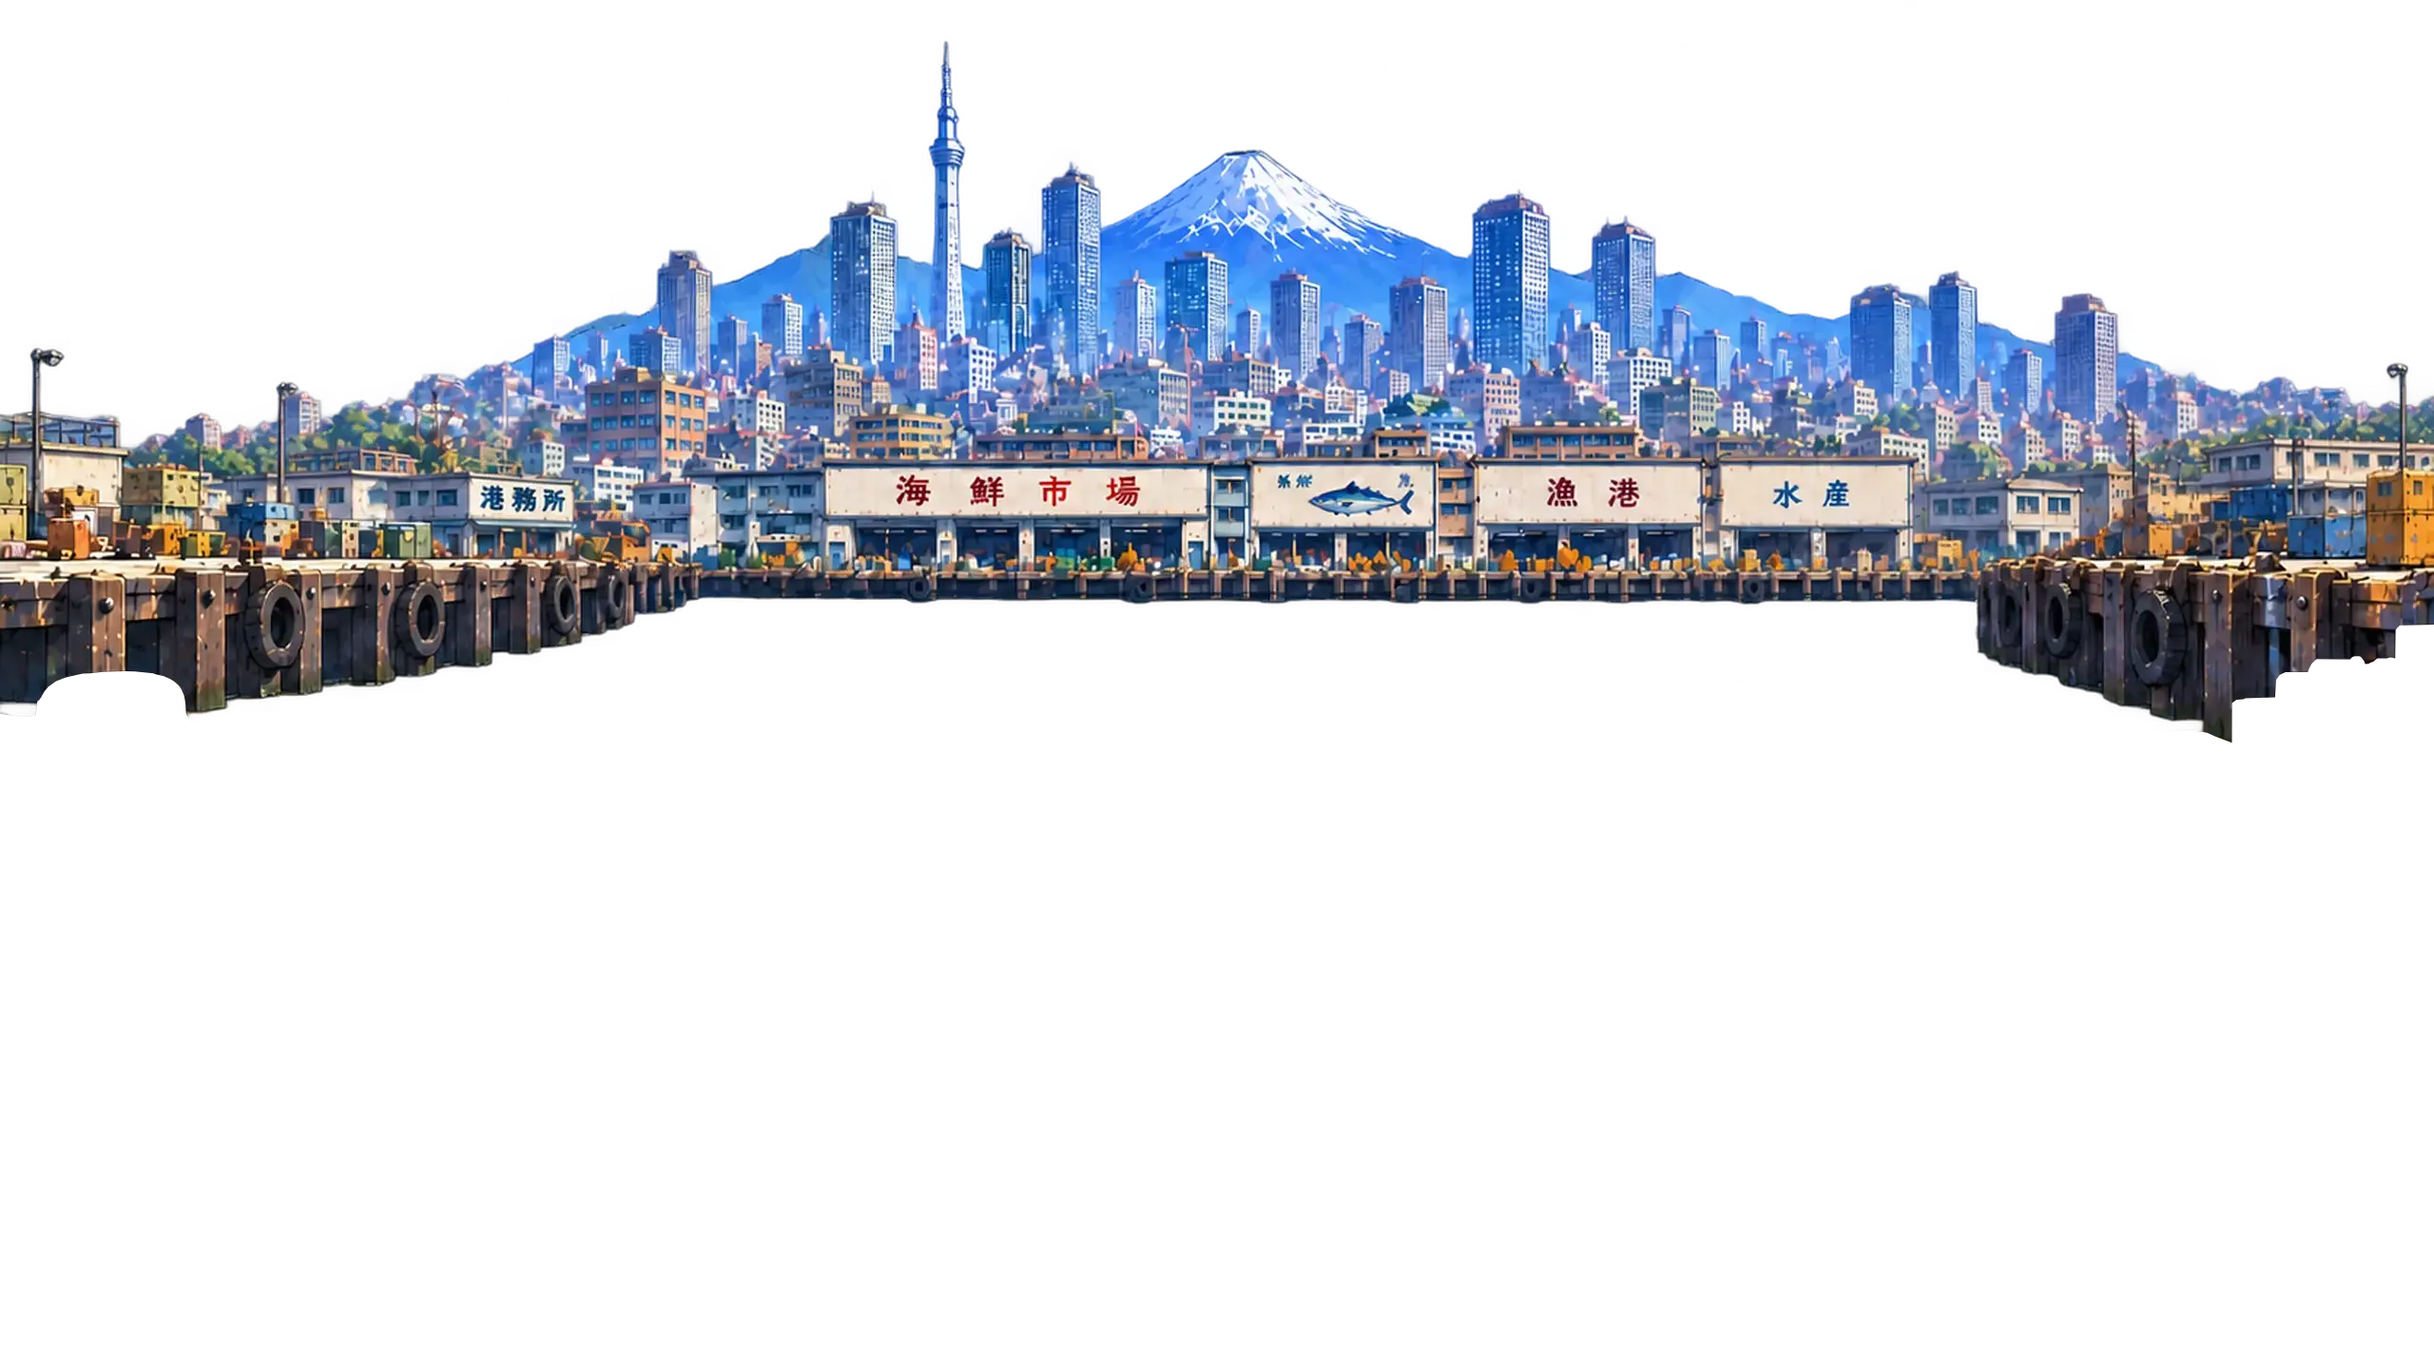
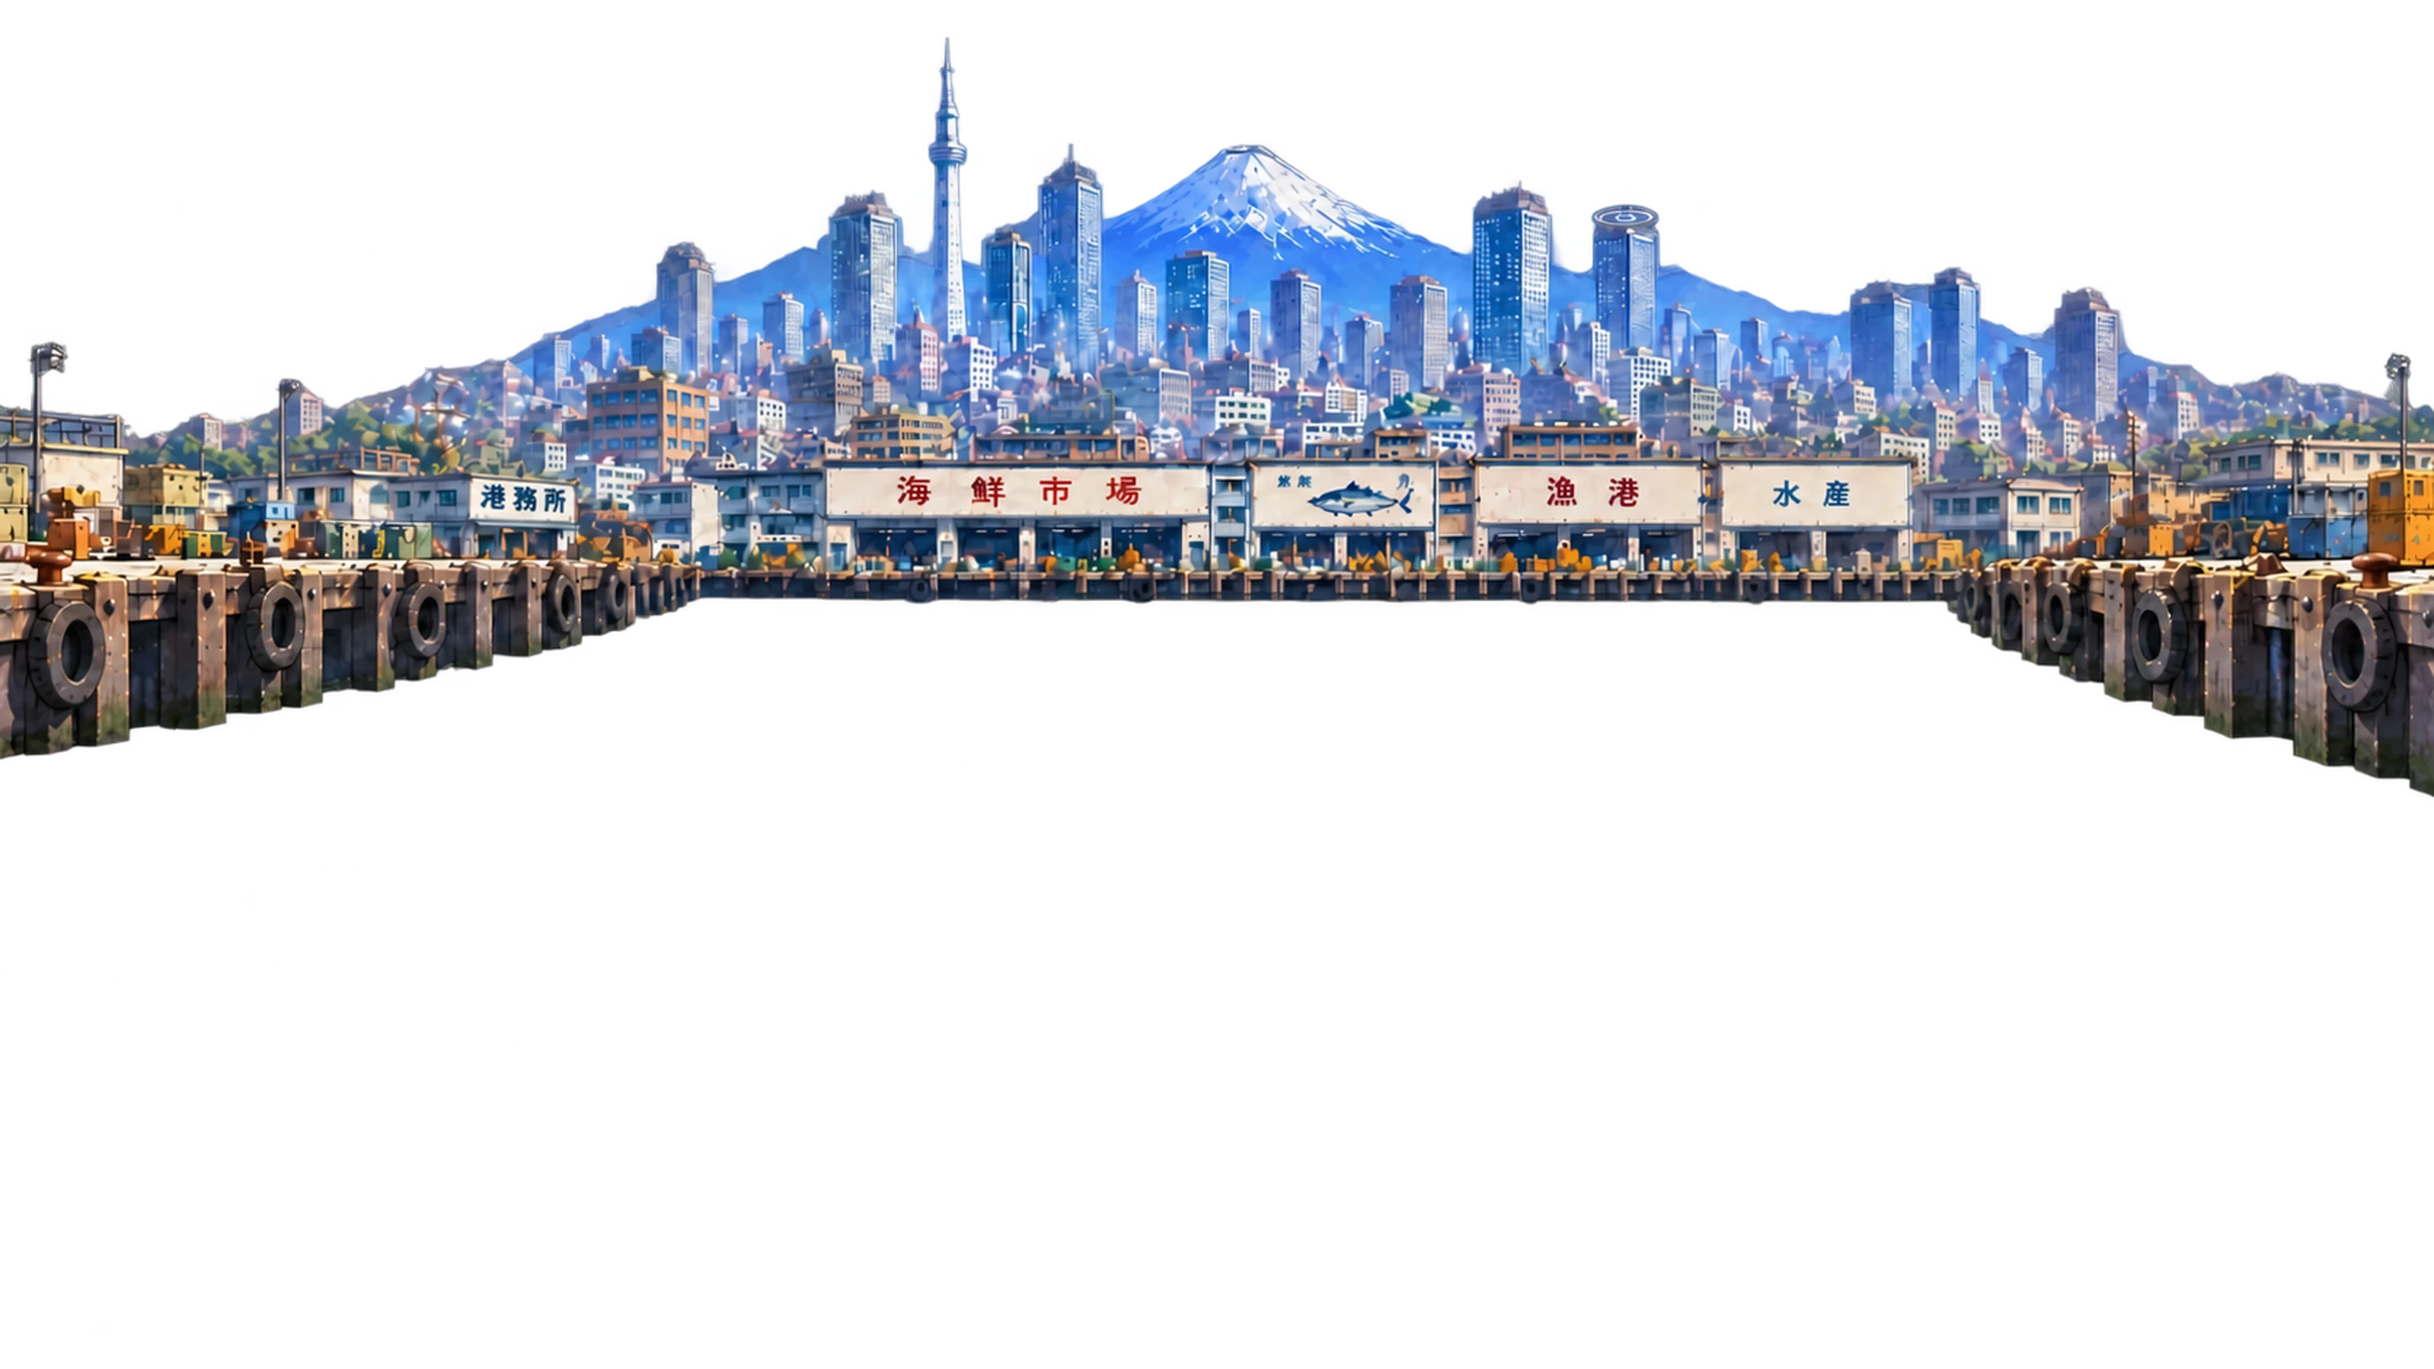
feat: reposition crane and helicopter

Changed region(s): [[0.0, 0.0312, 1.0, 0.5938]]

diff --git a/src/components/HarbourScene/extraction.ts b/src/components/HarbourScene/extraction.ts
@@ -11,7 +11,7 @@ import {
 } from "@utils/simExtraction";
 import type { Sim } from "@utils/simStep";
 
-import { hookWorldY, HORIZON_Y, waterlineY } from "./framing";
+import { hookWorldY, horizonY, waterlineY } from "./framing";
 
 interface Size {
 	width: number;
@@ -64,16 +64,16 @@ export const CRANE_ART = {
 	foot: { x: 0.33, y: 0.978 },
 	jib: { x: 1085 / 1145, y: 385 / 1374 }
 };
-/** The feet's outer edge, as a share of the art width from the anchor — the crane is drawn mirrored, its feet against the pier. */
+/** The feet's outer edge, as a share of the art width from the anchor — its feet against the left pier. */
 const CRANE_FOOT_REACH = 0.317;
 const CRANE_HEIGHT = 0.42;
 const CRANE_MAX_WIDTH = 0.55;
 /** Where the feet stand: the harbour's horizon, and how far in from the screen edge. */
-const CRANE_GROUND_Y = HORIZON_Y + 0.002;
-const CRANE_EDGE_GAP = 0.013;
+const CRANE_GROUND_OFFSET = -0.025;
+const CRANE_EDGE_GAP = -0.015;
 
 export interface CraneLayout {
-	/** Where its feet meet the ground, world space. The sprite is anchored here and drawn mirrored. */
+	/** Where its feet meet the ground, world space. The sprite is anchored here. */
 	x: number;
 	y: number;
 	/** Screen px per art pixel. */
@@ -84,7 +84,7 @@ export interface CraneLayout {
 	jib: Point;
 }
 
-/** The dock crane on the right-hand pier, its jib reaching out over the harbour. */
+/** The dock crane on the left-hand pier, its jib reaching out over the harbour. */
 export function craneLayout(view: Size): CraneLayout {
 	const height = Math.min(
 		CRANE_HEIGHT * view.height,
@@ -92,8 +92,8 @@ export function craneLayout(view: Size): CraneLayout {
 	);
 	const scale = height / CRANE_ART.height;
 	const width = CRANE_ART.width * scale;
-	const x = view.width * (1 - CRANE_EDGE_GAP) - CRANE_FOOT_REACH * width;
-	const y = view.height * CRANE_GROUND_Y;
+	const x = view.width * CRANE_EDGE_GAP + CRANE_FOOT_REACH * width;
+	const y = horizonY(view) + view.height * CRANE_GROUND_OFFSET;
 
 	return {
 		x,
@@ -101,8 +101,7 @@ export function craneLayout(view: Size): CraneLayout {
 		scale,
 		width,
 		height,
-		// Mirrored: the jib, right of the anchor in the art, lands left of it.
-		jib: { x: x - (CRANE_ART.jib.x - CRANE_ART.foot.x) * width, y: y - (CRANE_ART.foot.y - CRANE_ART.jib.y) * height }
+		jib: { x: x + (CRANE_ART.jib.x - CRANE_ART.foot.x) * width, y: y - (CRANE_ART.foot.y - CRANE_ART.jib.y) * height }
 	};
 }
 
@@ -114,6 +113,8 @@ const HELI_MAX_WIDTH = 0.5;
 /** It idles in the sky this much smaller — further off — than it works. */
 const HELI_IDLE_SCALE = 0.5;
 const HELI_IDLE = { x: 0.17, y: 0.16 };
+/** The helipad on the skyline's rooftop, in `bg-desktop`'s pixels — where it idles on a landscape screen. */
+const HELIPAD = { x: 1115, y: 150, artWidth: 1672, dockLine: 0.438 * 941 };
 /** How much winch cable it hangs the fish on once the fish is fully up, of the screen height. */
 const HELI_CABLE = 0.055;
 
@@ -122,12 +123,18 @@ export interface HeliLayout extends Point {
 	scale: number;
 }
 
+function helipad(view: Size): Point {
+	if (view.width < view.height) return { x: HELI_IDLE.x * view.width, y: HELI_IDLE.y * view.height };
+	const scale = view.width / HELIPAD.artWidth;
+	return { x: HELIPAD.x * scale, y: horizonY(view) + (HELIPAD.y - HELIPAD.dockLine) * scale };
+}
+
 /** Where the helicopter's winch ring is: idling in the sky until called, then flying over the hook and hovering there. */
 export function heliLayout(view: Size, hook: HookPose, arrival: number): HeliLayout {
 	const near = Math.min(HELI_WIDTH * view.height, HELI_MAX_WIDTH * view.width) / HELI_ART.solid;
 	const far = near * HELI_IDLE_SCALE;
 	const fly = between(arrival, 0, 0.6);
-	const idle = { x: HELI_IDLE.x * view.width, y: HELI_IDLE.y * view.height };
+	const idle = helipad(view);
 	const hover = { x: hook.x, y: (hook.finalY ?? hook.y) - HELI_CABLE * view.height };
 
 	return {

diff --git a/src/components/HarbourScene/Helicopter.tsx b/src/components/HarbourScene/Helicopter.tsx
@@ -1,6 +1,6 @@
 import type { Texture } from "pixi.js";
 
-import { HELI_ART, heliDrop, heliLayout, type HookPose } from "./extraction";
+import { HELI_ART, heliLayout } from "./extraction";
 
 interface HelicopterProps {
 	view: { width: number; height: number };
@@ -8,67 +8,17 @@ interface HelicopterProps {
 	texture?: Texture;
 	/** Day / night multiply tint from `computeAmbience`. */
 	tint: number;
-	/** The hook, while a fish is being landed — the helicopter flies over it once called in. */
-	hook?: HookPose;
-	/** Wall-clock seconds — the hover's clock. */
-	seconds: number;
 }
 
-/** The rotor disc, in art pixels: centred a little off the ring, as wide as the blades reach. */
-const ROTOR = {
-	x: 770 - HELI_ART.width * HELI_ART.ring.x,
-	y: 290 - HELI_ART.height * HELI_ART.ring.y,
-	rx: 740,
-	ry: 135
-};
-
-/** Not on the job, it keeps a distant hover; on it, the hover steadies and it hangs the fish from its winch. */
-const IDLE_BOB_PX = 5;
-const WORKING_BOB_PX = 2;
-
-/**
- * The helicopter (BUILD_PLAN §16), hovering small over the harbour skyline until a catch is too heavy for the
- * crane. Then it flies over the hook, growing as it comes closer, pays out its winch cable and lifts the last
- * of the fish clear. Faces right: the art faces left, so it is drawn mirrored. The blades are a still image, so
- * a soft flickering disc over them stands in for the spin.
- */
-export function Helicopter({ view, texture, tint, hook, seconds }: HelicopterProps) {
+/** The helicopter, parked still on the skyline's helipad. Faces left, as the art is drawn. */
+export function Helicopter({ view, texture, tint }: HelicopterProps) {
 	if (!texture) return null;
 
-	const arrival = hook?.extraction?.arrival.helicopter ?? 0;
-	const heli = heliLayout(view, hook ?? { x: view.width / 2, y: view.height / 2, grow: 1 }, arrival);
-	const bob = Math.sin(seconds * 1.7) * (WORKING_BOB_PX + (IDLE_BOB_PX - WORKING_BOB_PX) * (1 - arrival));
-	const y = heli.y + bob;
-	const reach = heliDrop(arrival);
+	const heli = heliLayout(view, { x: view.width / 2, y: view.height / 2, grow: 1 }, 0);
 
 	return (
-		<>
-			{reach > 0 && hook && (
-				<pixiGraphics
-					draw={g => {
-						g.clear();
-						g.moveTo(heli.x, y)
-							.lineTo(heli.x, y + (hook.y - y) * reach)
-							.stroke({ width: 3, color: 0x2b2b2b });
-					}}
-				/>
-			)}
-			<pixiContainer
-				x={heli.x}
-				y={y}
-				scale={{ x: -heli.scale, y: heli.scale }}
-				rotation={Math.sin(seconds * 1.1) * 0.02}
-			>
-				<pixiSprite texture={texture} anchor={HELI_ART.ring} tint={tint} />
-				<pixiGraphics
-					tint={tint}
-					alpha={0.2 + 0.08 * Math.sin(seconds * 47)}
-					draw={g => {
-						g.clear();
-						g.ellipse(ROTOR.x, ROTOR.y, ROTOR.rx, ROTOR.ry).fill(0xcfe6f2);
-					}}
-				/>
-			</pixiContainer>
-		</>
+		<pixiContainer x={heli.x} y={heli.y} scale={heli.scale}>
+			<pixiSprite texture={texture} anchor={HELI_ART.ring} tint={tint} />
+		</pixiContainer>
 	);
 }

diff --git a/src/components/HarbourScene/extraction.test.ts b/src/components/HarbourScene/extraction.test.ts
@@ -150,13 +150,13 @@ describe("hookPose", () => {
 });
 
 describe("craneLayout", () => {
-	it("stands on the right-hand pier, its jib reaching out over the harbour and up out of the way of the fish", () => {
+	it("stands on the left-hand pier, its jib reaching out over the harbour and up out of the way of the fish", () => {
 		for (const view of [VIEW, PORTRAIT, { width: 844, height: 390 }]) {
 			const { x, y, jib } = craneLayout(view);
-			expect(x).toBeGreaterThan(view.width * 0.6);
-			expect(x).toBeLessThanOrEqual(view.width);
-			expect(jib.x).toBeLessThan(x);
-			expect(jib.x).toBeGreaterThan(0);
+			expect(x).toBeLessThan(view.width * 0.4);
+			expect(x).toBeGreaterThanOrEqual(0);
+			expect(jib.x).toBeGreaterThan(x);
+			expect(jib.x).toBeLessThan(view.width);
 			expect(jib.y).toBeLessThan(y);
 			expect(jib.y).toBeGreaterThanOrEqual(-view.height * 0.05);
 		}
@@ -173,10 +173,10 @@ describe("heliLayout", () => {
 		return { hook: p, layout: heliLayout(VIEW, p, arrival) };
 	};
 
-	it("chills small in the sky at the left of the harbour until it is called", () => {
+	it("chills small on the helipad at the right of the skyline until it is called", () => {
 		const { layout } = pose(0);
-		expect(layout.x).toBeLessThan(VIEW.width * 0.3);
-		expect(layout.y).toBeLessThan(VIEW.height * 0.25);
+		expect(layout.x).toBeGreaterThan(VIEW.width * 0.6);
+		expect(layout.y).toBeLessThan(VIEW.height * 0.4);
 		expect(layout.scale).toBeLessThan(pose(1).layout.scale);
 	});
 

diff --git a/src/components/HarbourScene/DockCrane.tsx b/src/components/HarbourScene/DockCrane.tsx
@@ -13,7 +13,7 @@ interface DockCraneProps {
 }
 
 /**
- * The dock crane (BUILD_PLAN §16), standing on the right-hand pier as part of the harbour — just chilling
+ * The dock crane (BUILD_PLAN §16), standing on the left-hand pier as part of the harbour — just chilling
  * until a catch is too heavy for the rod. Then its hoist cable pays out from the jib to the hook, hauls the
  * fish under the jib and lifts it, and lets go again if the helicopter has to take over.
  */
@@ -29,15 +29,7 @@ export function DockCrane({ view, texture, tint, hook }: DockCraneProps) {
 
 	return (
 		<>
-			{/* Drawn mirrored so the jib reaches out over the water, its feet on the pier. */}
-			<pixiSprite
-				texture={texture}
-				anchor={CRANE_ART.foot}
-				x={crane.x}
-				y={crane.y}
-				scale={{ x: -crane.scale, y: crane.scale }}
-				tint={tint}
-			/>
+			<pixiSprite texture={texture} anchor={CRANE_ART.foot} x={crane.x} y={crane.y} scale={crane.scale} tint={tint} />
 			{reach > 0 && (
 				<pixiGraphics
 					draw={g => {

diff --git a/src/components/HarbourScene/backgroundFit.test.ts b/src/components/HarbourScene/backgroundFit.test.ts
@@ -1,6 +1,7 @@
 import { describe, expect, it } from "vitest";
 
 import { computeBackgroundFit, textureToScreen } from "./backgroundFit";
+import { horizonY } from "./framing";
 
 const DESKTOP = { width: 2560, height: 1441 };
 const MOBILE = { width: 941, height: 1670 };
@@ -19,10 +20,10 @@ describe("computeBackgroundFit", () => {
 		expect(fit.x).toBeCloseTo(960);
 	});
 
-	it("puts the docks' waterline on the top-third horizon in landscape", () => {
+	it("drops the docks' waterline below the top-third horizon in landscape", () => {
 		const fit = computeBackgroundFit({ width: 1920, height: 1080 }, DESKTOP, MOBILE);
 
-		expect(dockLineY(fit, 0.438)).toBeCloseTo(1080 / 3);
+		expect(dockLineY(fit, 0.438)).toBeCloseTo(horizonY({ width: 1920, height: 1080 }));
 	});
 
 	it("draws the portrait composition fit to viewport width in portrait", () => {

diff --git a/src/components/HarbourScene/OceanLayer.tsx b/src/components/HarbourScene/OceanLayer.tsx
@@ -1,7 +1,7 @@
 import type { Texture } from "pixi.js";
 
 import type { Celestial } from "./ambience";
-import { HORIZON_Y, waterlineY } from "./framing";
+import { horizonY, waterlineY } from "./framing";
 import { HARBOUR_LAYERS, type HarbourView } from "./layers";
 import { WaterReflections } from "./WaterReflections";
 import { waterSwell } from "./waterSwell";
@@ -51,7 +51,7 @@ interface OceanLayerProps {
  * `WaterReflections` adds the moon / building-light shine on top either way.
  */
 export function OceanLayer({ view, tint, texture, seconds, celestial, windowGlow }: OceanLayerProps) {
-	const baseTop = view.height * HORIZON_Y;
+	const baseTop = horizonY(view);
 	const bottom = waterlineY(view);
 	const reflections = (
 		<WaterReflections

diff --git a/src/components/HarbourScene/backgroundFit.ts b/src/components/HarbourScene/backgroundFit.ts
@@ -1,4 +1,4 @@
-import { HORIZON_Y } from "./framing";
+import { DESKTOP_DROP, HORIZON_Y } from "./framing";
 
 interface Size {
 	width: number;
@@ -39,7 +39,8 @@ export function computeBackgroundFit<T extends Size>(screen: Size, desktop: T, m
 	const texture = landscape ? desktop : mobile;
 	const scale = screen.width / texture.width;
 	const dockLine = landscape ? DOCK_LINE.desktop : DOCK_LINE.mobile;
-	const top = screen.height * HORIZON_Y - dockLine * texture.height * scale;
+	const drop = landscape ? screen.height * DESKTOP_DROP : 0;
+	const top = screen.height * HORIZON_Y + drop - dockLine * texture.height * scale;
 
 	return { texture, scale, x: screen.width / 2, y: top + (texture.height * scale) / 2 };
 }

diff --git a/src/components/HarbourScene/framing.ts b/src/components/HarbourScene/framing.ts
@@ -14,6 +14,16 @@ interface Size {
 export const HORIZON_Y = 1 / 3;
 export const WATERLINE_Y = 2 / 3;
 
+/** How far the wide desktop art sits below the top-third horizon, as a fraction
+ *  of screen height. The water starts where its docks end, so `horizonY` moves
+ *  with it. */
+export const DESKTOP_DROP = 0.2;
+
+/** Screen y where the docks meet the water. */
+export function horizonY(view: Size): number {
+	return view.height * (HORIZON_Y + (view.width >= view.height ? DESKTOP_DROP : 0));
+}
+
 /** Screen height fraction the hook rests at once the descent is under way. */
 const HOOK_REST_Y = 0.5;
 

diff --git a/src/components/HarbourScene/HarbourScene.tsx b/src/components/HarbourScene/HarbourScene.tsx
@@ -161,7 +161,7 @@ export function HarbourScene({ depth = 0 }: HarbourSceneProps) {
 					<SeamWaves view={view} tint={bgTint} texture={textures?.[seamUrl]} seconds={seconds} />
 					{/* Part of the harbour, just chilling until a catch is too heavy for the rod. */}
 					<DockCrane view={view} texture={textures?.[craneUrl]} tint={bgTint} hook={hook} />
-					<Helicopter view={view} texture={textures?.[helicopterUrl]} tint={bgTint} hook={hook} seconds={seconds} />
+					<Helicopter view={view} texture={textures?.[helicopterUrl]} tint={bgTint} />
 				</pixiContainer>
 				{boat && (
 					<FishingLine

diff --git a/src/components/HarbourScene/SkyLayer.tsx b/src/components/HarbourScene/SkyLayer.tsx
@@ -1,6 +1,6 @@
 import { FillGradient } from "pixi.js";
 
-import { HORIZON_Y } from "./framing";
+import { horizonY } from "./framing";
 import type { HarbourView } from "./layers";
 
 interface SkyLayerProps {
@@ -51,7 +51,7 @@ export function SkyLayer({ view, skyTop, skyHorizon }: SkyLayerProps) {
 		<pixiGraphics
 			draw={g => {
 				g.clear();
-				g.rect(0, 0, view.width, view.height * HORIZON_Y).fill(skyGradient(skyTop, skyHorizon));
+				g.rect(0, 0, view.width, horizonY(view)).fill(skyGradient(skyTop, skyHorizon));
 			}}
 		/>
 	);
